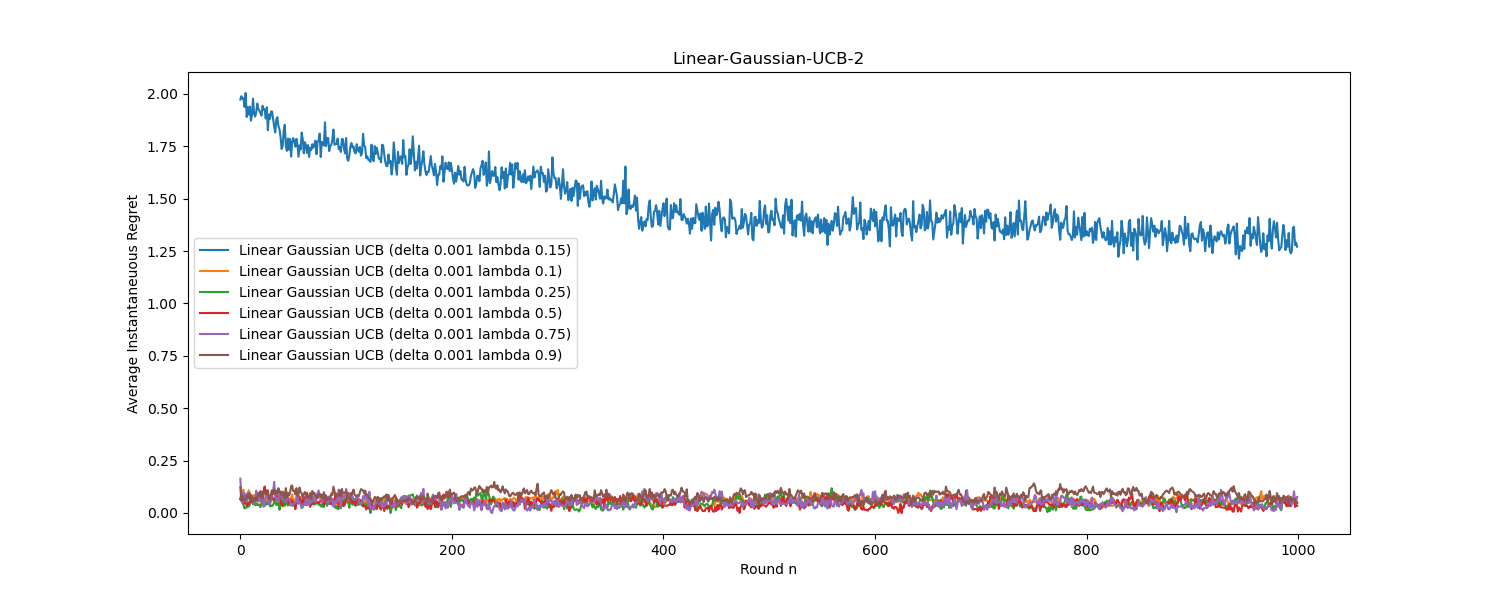
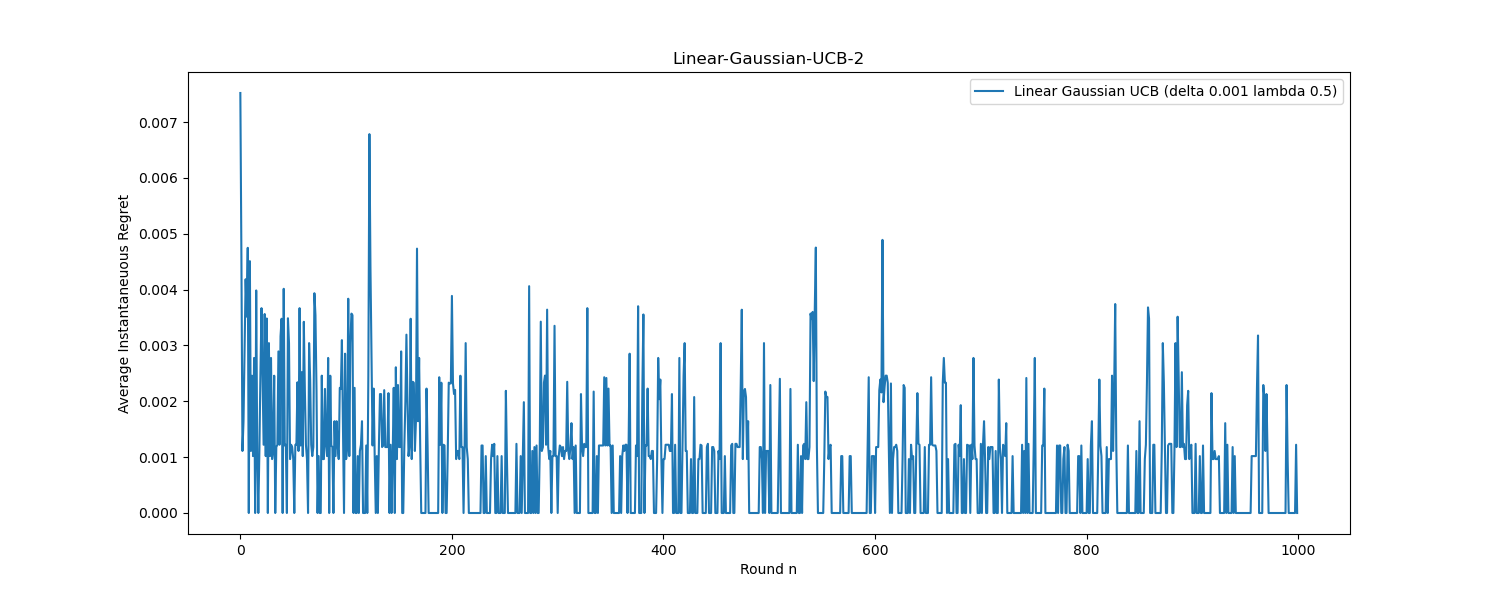
That's it with linUCB for now

diff --git a/src/data_generating_mechanism/linear_gaussian_mechanism.py b/src/data_generating_mechanism/linear_gaussian_mechanism.py
@@ -22,7 +22,7 @@ class Linear_Gaussian_Stochastic(Data_Generating_Mechanism):
 
         super().__init__(time_horizon = time_horizon, 
                          mu_arms = np.zeros(shape = num_arms), 
-                         num_runs = 50, 
+                         num_runs = 1000, 
                          init_exploration = init_exploration)
         
     def initialize_parameters(self):
